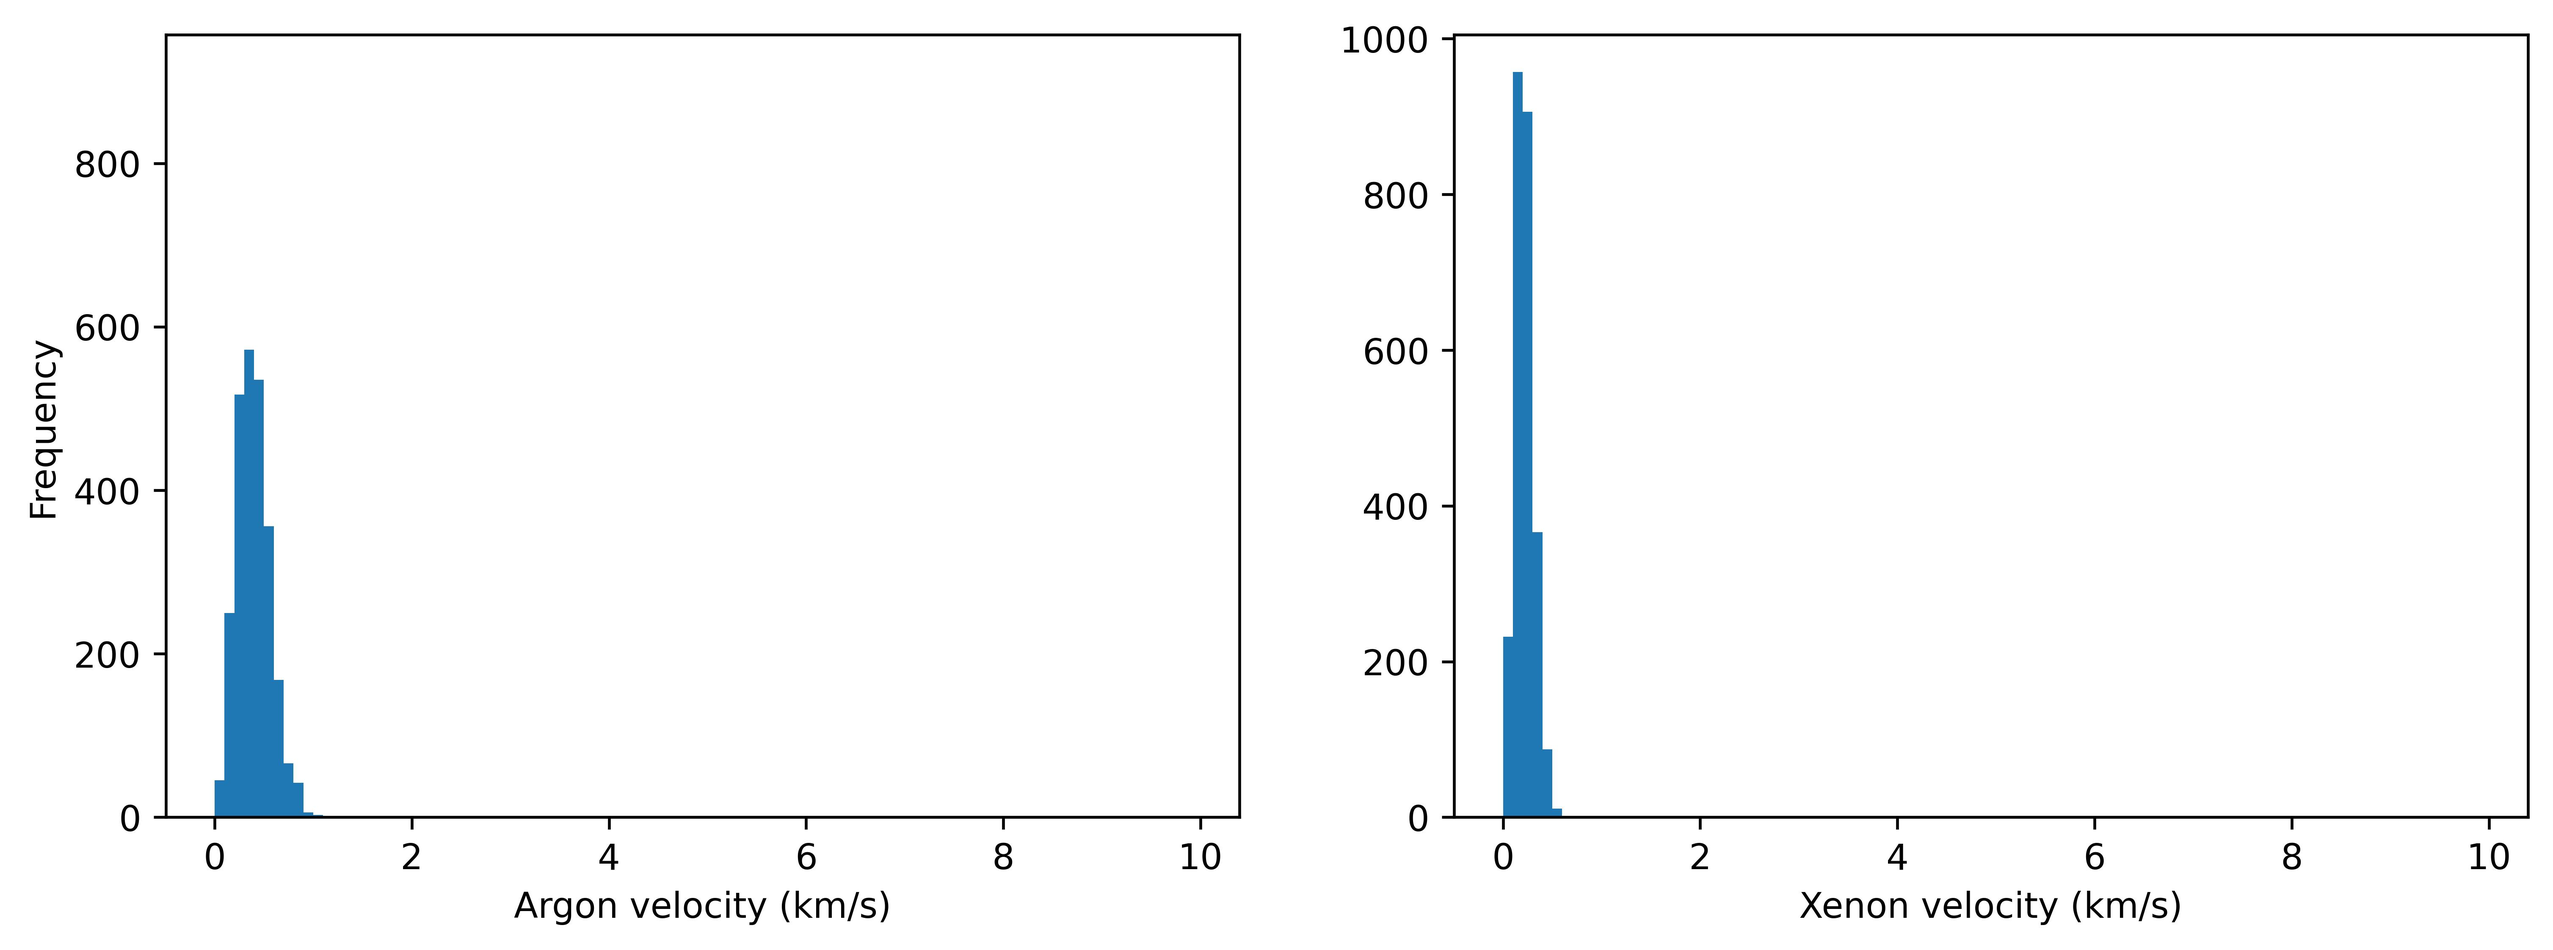
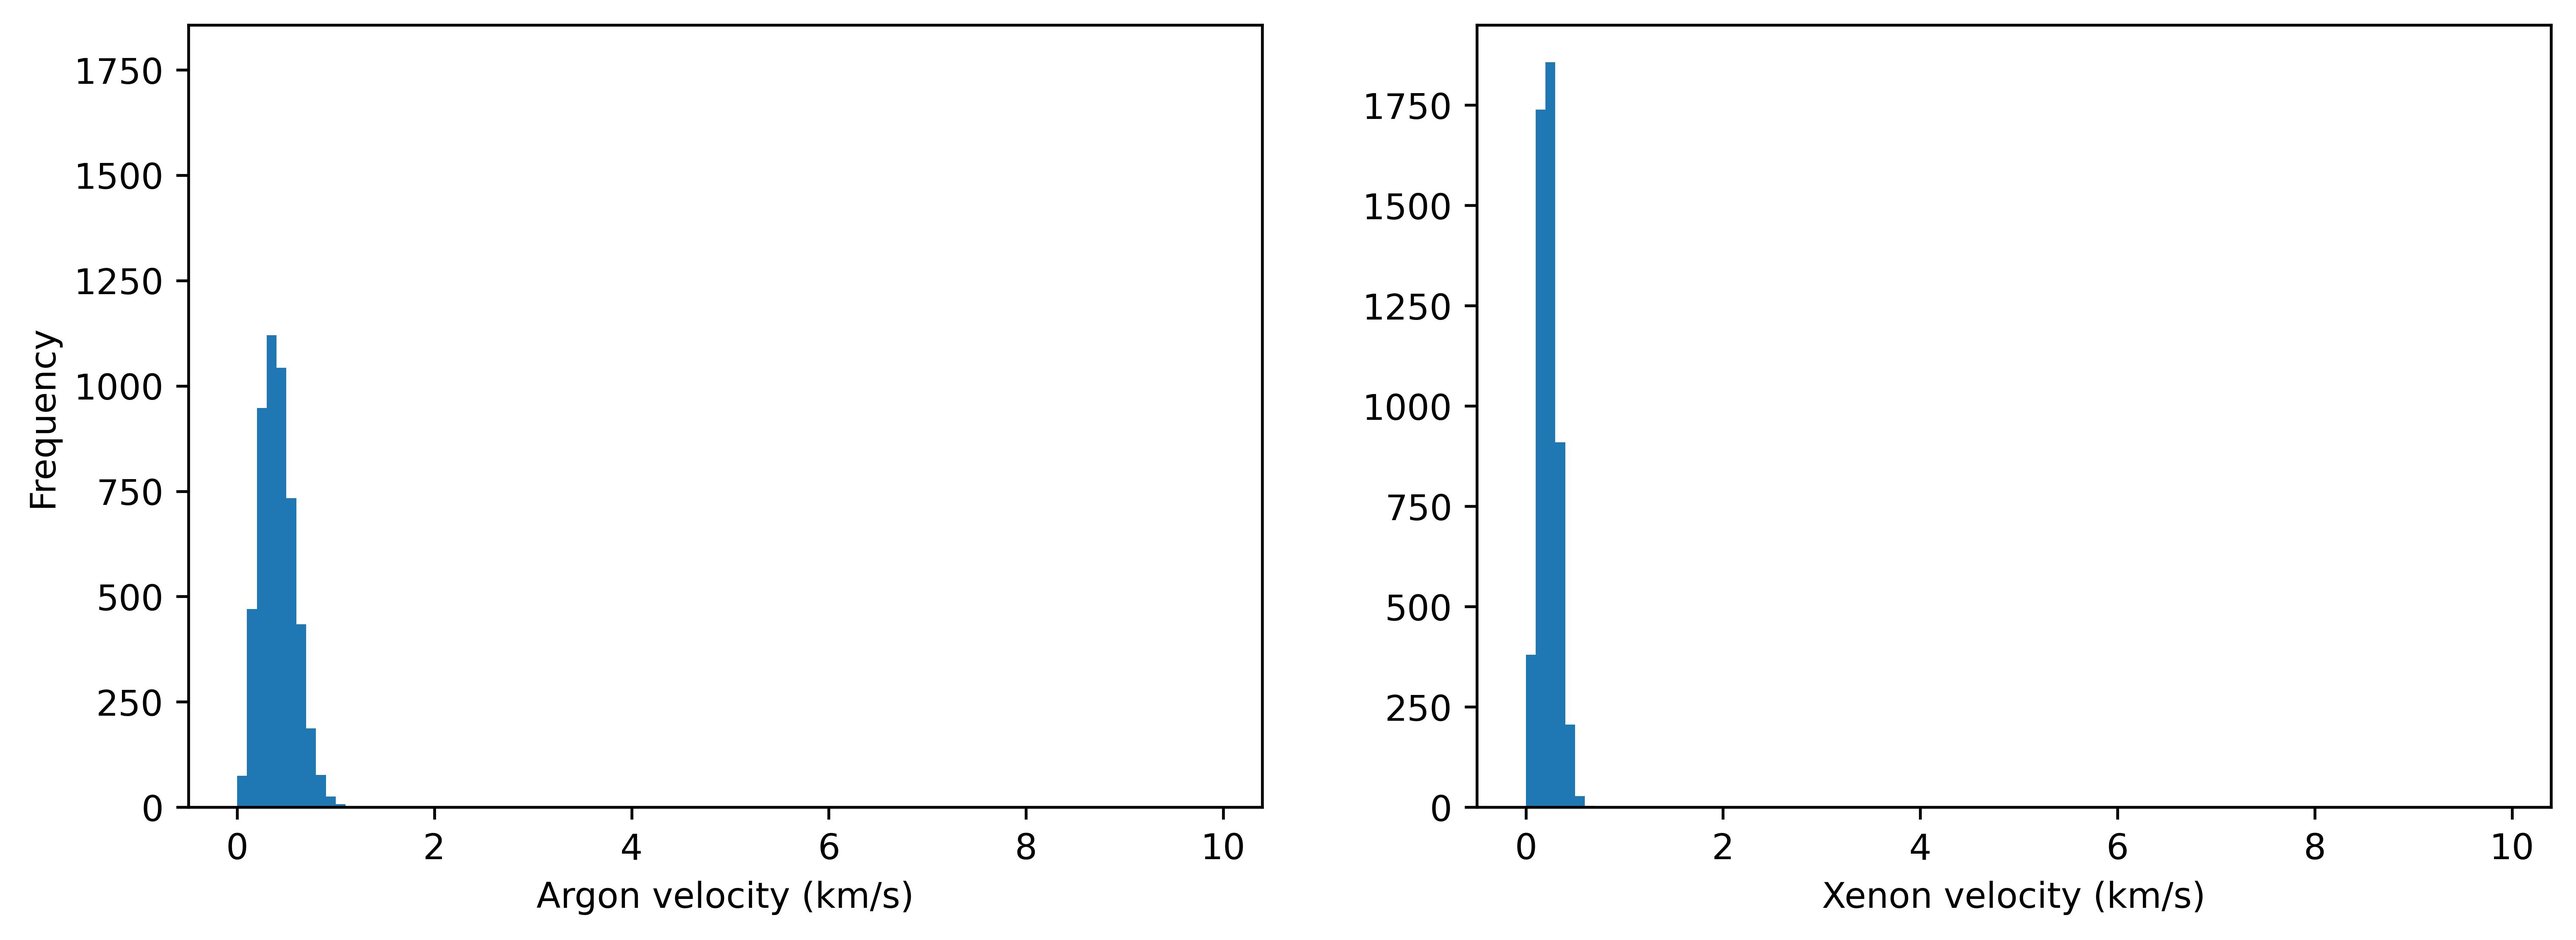
Jul 19th 2024

diff --git a/src/plot_result.py b/src/plot_result.py
@@ -13,9 +13,10 @@ from field.utils import profiling_rad
 import utilities.reduced_parameter as red
 from utilities.etc import binning, moving_average
 
-#PICKLE_PATH = os.path.expanduser("~/code/mm_polariton_pickle_ja/result_Jul11st_2024_1319/*")
+PICKLE_PATH = os.path.expanduser("~/code/mm_polariton_pickle_ja/result_Jul16th_2024_1033/*")
+print(PICKLE_PATH)
 #PICKLE_PATH = "pickle_jar/result_Jul12nd_2024_0939/*"
-PICKLE_PATH = "pickle_jar/*"
+#PICKLE_PATH = "pickle_jar/*"
 #PICKLE_PATH = "pickle_jar/cluster/result_Jul15th_2024_1018/*"
 #KEYWORDS = "cavity"
 
